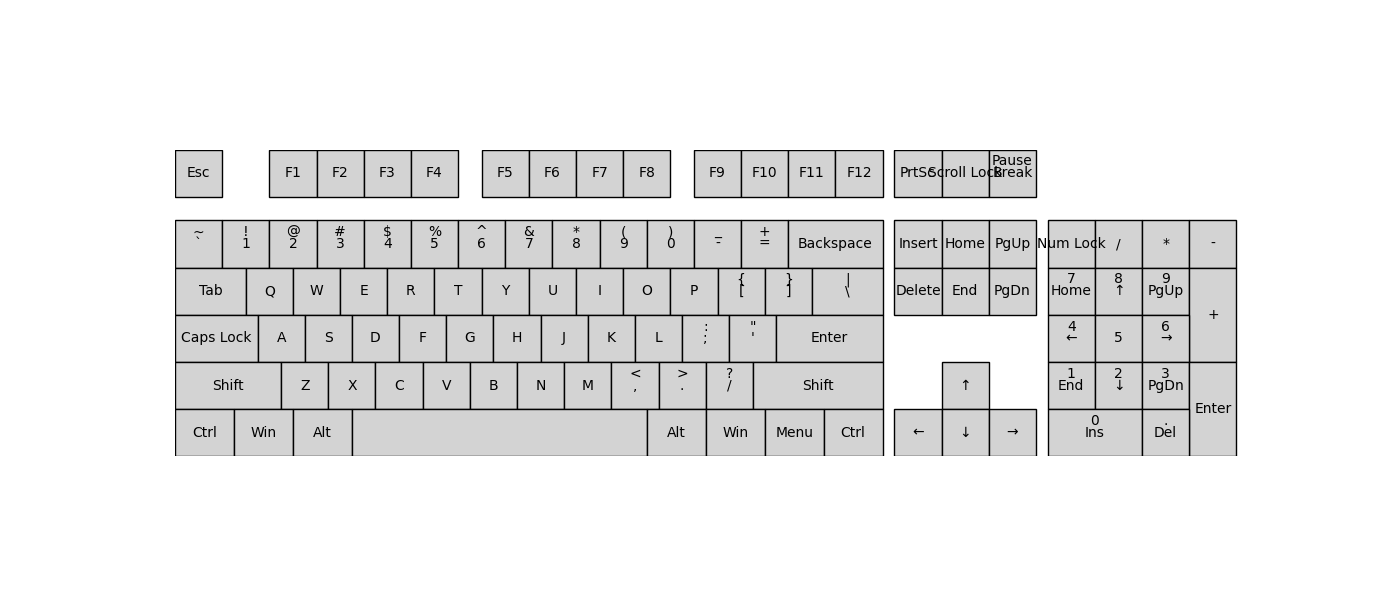
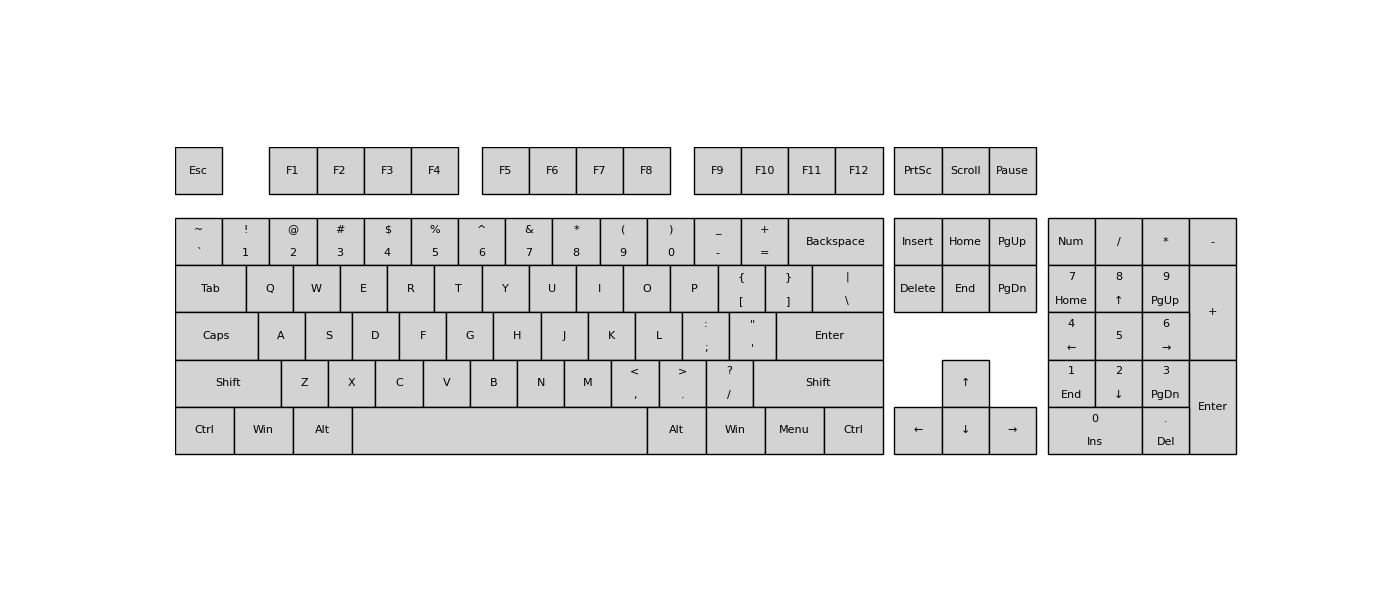
finish 104 keyboard draw function

diff --git a/test.py b/test.py
@@ -1,28 +1,31 @@
 import matplotlib.pyplot as plt
 import matplotlib.patches as patches
 
-# 模拟从JSON读取的数据
+# keyboard layout data
 keyboard_data = [
-        ["Esc",{"x":1},"F1","F2","F3","F4",{"x":0.5},"F5","F6","F7","F8",{"x":0.5},"F9","F10","F11","F12",{"x":0.25},"PrtSc","Scroll Lock","Pause\nBreak"],
-        [{"y":0.5},"~\n`","!\n1","@\n2","#\n3","$\n4","%\n5","^\n6","&\n7","*\n8","(\n9",")\n0","_\n-","+\n=",{"w":2},"Backspace",{"x":0.25},"Insert","Home","PgUp",{"x":0.25},"Num Lock","/","*","-"],
-        [{"w":1.5},"Tab","Q","W","E","R","T","Y","U","I","O","P","{\n[","}\n]",{"w":1.5},"|\n\\",{"x":0.25},"Delete","End","PgDn",{"x":0.25},"7\nHome","8\n↑","9\nPgUp",{"h":2},"+"],
-        [{"w":1.75},"Caps Lock","A","S","D","F","G","H","J","K","L",":\n;","\"\n'",{"w":2.25},"Enter",{"x":3.5},"4\n←","5","6\n→"],
-        [{"w":2.25},"Shift","Z","X","C","V","B","N","M","<\n,",">\n.","?\n/",{"w":2.75},"Shift",{"x":1.25},"↑",{"x":1.25},"1\nEnd","2\n↓","3\nPgDn",{"h":2},"Enter"],
-        [{"w":1.25},"Ctrl",{"w":1.25},"Win",{"w":1.25},"Alt",{"w":6.25},"",{"w":1.25},"Alt",{"w":1.25},"Win",{"w":1.25},"Menu",{"w":1.25},"Ctrl",{"x":0.25},"←","↓","→",{"x":0.25,"w":2},"0\nIns",".\nDel"]
-    ]
-
-# keyboard_data = [
-#         ["Esc",{"x":1},"F1","F2","F3","F4",{"x":0.5},"F5","F6","F7","F8",{"x":0.5},"F9","F10","F11","F12",{"x":0.25},"PrtSc","Scroll Lock","Pause\nBreak"],
-# ]
+    ["Esc",{"x":1},"F1","F2","F3","F4",{"x":0.5},"F5","F6","F7","F8",{"x":0.5},"F9","F10","F11","F12",{"x":0.25},"PrtSc","Scroll","Pause"],
+    [{"y":0.5},"~\n`","!\n1","@\n2","#\n3","$\n4","%\n5","^\n6","&\n7","*\n8","(\n9",")\n0","_\n-","+\n=",{"w":2},"Backspace",{"x":0.25},"Insert","Home","PgUp",{"x":0.25},"Num","/","*","-"],
+    [{"w":1.5},"Tab","Q","W","E","R","T","Y","U","I","O","P","{\n[","}\n]",{"w":1.5},"|\n\\",{"x":0.25},"Delete","End","PgDn",{"x":0.25},"7\nHome","8\n↑","9\nPgUp",{"h":2},"+"],
+    [{"w":1.75},"Caps","A","S","D","F","G","H","J","K","L",":\n;","\"\n'",{"w":2.25},"Enter",{"x":3.5},"4\n←","5","6\n→"],
+    [{"w":2.25},"Shift","Z","X","C","V","B","N","M","<\n,",">\n.","?\n/",{"w":2.75},"Shift",{"x":1.25},"↑",{"x":1.25},"1\nEnd","2\n↓","3\nPgDn",{"h":2},"Enter"],
+    [{"w":1.25},"Ctrl",{"w":1.25},"Win",{"w":1.25},"Alt",{"w":6.25},"",{"w":1.25},"Alt",{"w":1.25},"Win",{"w":1.25},"Menu",{"w":1.25},"Ctrl",{"x":0.25},"←","↓","→",{"x":0.25,"w":2},"0\nIns",".\nDel"]
+]
 
 # 初始化绘图
 fig, ax = plt.subplots(figsize=(14, 6))
 
 ax.set_xlim(0, 23)
-ax.set_ylim(0, 6.5)
+ax.set_ylim(0, 6.6)
 
 def default_key():
     return 1, 1
+
+# 分析文本位置的函数
+def analyze_text_location(x, y, width, height, text):
+    text_width = ax.text(x + width/2, y + height/2, text, ha='center', va='center', fontdict={'size': 8}, color='black', zorder=5)
+    bbox = text_width.get_window_extent(renderer=fig.canvas.get_renderer())
+    bbox_data = ax.transData.inverted().transform(bbox)
+    return bbox_data
 
 # 绘制键盘的函数
 def draw_keyboard(data):
@@ -46,18 +49,11 @@ def draw_keyboard(data):
             if isinstance(item, str):
                 lines = item.split("\n")
                 for i, line in enumerate(lines):
-                    ax.text(x_offset + 0.5 * width, y_offset + (0.5 + i / 2) * height / len(lines), line,
-                            horizontalalignment='center', verticalalignment='center')
-            elif isinstance(item, dict):
-                # Handle multiple characters with specified positions
-                for text, pos in item.get("text_positions", {}).items():
-                    ax.text(x_offset + pos['x'] * width, y_offset + pos['y'] * height, text,
-                            horizontalalignment='center', verticalalignment='center')            
+                    ax.text(x_offset + width/2, y_offset + (i / 2) * height + height / len(lines)/2, line, ha='center', va='center', fontdict={'size': 8}, color='black', zorder=5)
             x_offset += width
             width, height = default_key()
         y_offset += 1
     ax.invert_yaxis()
-
 
 draw_keyboard(keyboard_data)
 

diff --git a/Readme.md b/Readme.md
@@ -2,6 +2,25 @@
 
 This is a simple tool to generate keyboard layouts for virtual keyboards. It is written in Python and uses the Tkinter library for the GUI.
 
+### 绘制键盘布局
+绘制键盘布局的程序使用`matplotlib`库的`patches`模块来创建矩形代表键盘上的每个键。每个键可以通过一个字典指定其大小和位置的偏移。这些键可以包含文本，且文本可以跨越多行。
+
+#### 键的属性定义
+- **`w`**: 定义键的宽度。
+- **`h`**: 定义键的高度。
+- **`x`**: 定义横向偏移量，即该键距离前一个键的右边缘的距离。
+- **`y`**: 定义纵向偏移量，即该键所在行的起始绘制点距离上一行的底部的距离。
+
+#### 函数功能
+- **`default_key()`**: 返回默认键的宽度和高度（1x1）。
+- **`draw_keyboard(data)`**: 根据输入数据绘制整个键盘。该函数遍历`data`中的每一行和每一个元素，根据元素属性（如宽度、高度、偏移等）来绘制每个键。
+
+#### 文本处理
+对于有两行文本的键，如"Shift\nUp"，文本会被分割成两行并在键内垂直居中显示。每行文本的垂直位置是通过键的高度动态计算，以确保文本在键内均匀分布。
+
+### 坐标系调整
+`ax.invert_yaxis()`函数的使用是为了调整matplotlib的默认坐标系统，使得绘图的起点从左上角开始，而不是通常的左下角。这样做更符合计算机图形和GUI设计中常用的坐标系统，使得视觉呈现与实际的物理键盘布局更为一致。
+
 results how to use the tool are shown below.
 ![./keyboard_layout_generate_result.png]
 ## Cited
